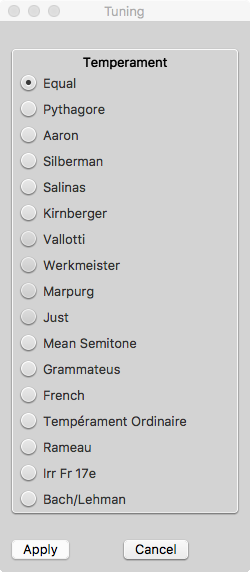
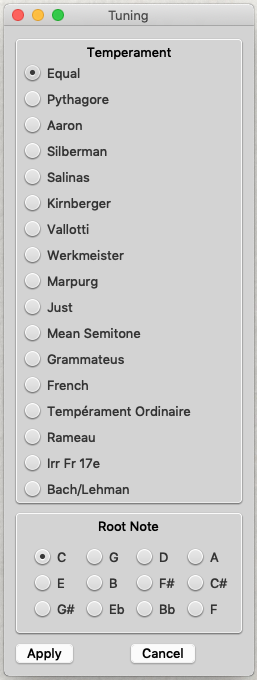
added the ability to change the root note

Changed region(s): [[0.0, 0.0, 1.0, 1.0]]

diff --git a/src/Tuning/tuning.qml b/src/Tuning/tuning.qml
@@ -27,7 +27,7 @@ MuseScore {
     description: "Converts between tuning systems"
     pluginType: "dialog"
     width: 250
-    height: 550
+    height: 650
 
     onRun: {
         if (!curScore) {
@@ -35,6 +35,7 @@ MuseScore {
             Qt.quit()
         }
         chosenTemperament = equal;
+        chosenRoot = 0;
     }
 
     function applyTemperament()
@@ -144,12 +145,13 @@ MuseScore {
     property var bachLehman: [ 000.0, 698.0, 196.1, 894.1, 392.2, 1094.1, 596.1, 98.0, 798.0, 298.0, 998.0, 502.0 ];
 
     property var chosenTemperament: [];
+    property var chosenRoot: 0;
 
     /**
      * map a note (pitch modulo 12) to a value in one of the above tables
      */
     function lookUp(note, table) {
-        return table[(note * 7) % 12];
+        return table[((note * 7) - chosenRoot + 12) % 12];
     }
 
     /**
@@ -165,7 +167,7 @@ MuseScore {
     Rectangle {
         color: "lightgrey"
         anchors.fill: parent
-
+ 
         GridLayout {
             columns: 2
             anchors.fill: parent
@@ -296,6 +298,103 @@ MuseScore {
                         exclusiveGroup: tempamentTypeGroup
                         onClicked: {
                             chosenTemperament = bachLehman
+                        }
+                    }
+                }
+            }
+            GroupBox {
+                Layout.columnSpan: 2
+                anchors.left: parent.left
+                anchors.right: parent.right
+                title: "Root Note"
+                GridLayout {
+                    columns: 4
+                    anchors.fill: parent
+                    anchors.margins: 10
+                    ExclusiveGroup { id: rootNoteGroup }
+                    RadioButton {
+                        text: "C"
+                        checked: true
+                        exclusiveGroup: rootNoteGroup
+                        onClicked: {
+                            chosenRoot = 0
+                        }
+                    }
+                    RadioButton {
+                        text: "G"
+                        exclusiveGroup: rootNoteGroup
+                        onClicked: {
+                            chosenRoot = 1
+                        }
+                    }
+                    RadioButton {
+                        text: "D"
+                        exclusiveGroup: rootNoteGroup
+                        onClicked: {
+                            chosenRoot = 2
+                        }
+                    }
+                    RadioButton {
+                        text: "A"
+                        exclusiveGroup: rootNoteGroup
+                        onClicked: {
+                            chosenRoot = 3
+                        }
+                    }
+                    RadioButton {
+                        text: "E"
+                        exclusiveGroup: rootNoteGroup
+                        onClicked: {
+                            chosenRoot = 4
+                        }
+                    }
+                    RadioButton {
+                        text: "B"
+                        exclusiveGroup: rootNoteGroup
+                        onClicked: {
+                            chosenRoot = 5
+                        }
+                    }
+                    RadioButton {
+                        text: "F#"
+                        exclusiveGroup: rootNoteGroup
+                        onClicked: {
+                            chosenRoot = 6
+                        }
+                    }
+                    RadioButton {
+                        text: "C#"
+                        exclusiveGroup: rootNoteGroup
+                        onClicked: {
+                            chosenRoot = 7
+                        }
+                    }
+                    RadioButton {
+                        text: "G#"
+                        exclusiveGroup: rootNoteGroup
+                        onClicked: {
+                            chosenRoot = 8
+                        }
+                    }
+                    RadioButton {
+                        text: "Eb"
+                        exclusiveGroup: rootNoteGroup
+                        onClicked: {
+                            chosenRoot = 9
+                        }
+                    }
+                    RadioButton {
+                        text: "Bb"
+                        exclusiveGroup: rootNoteGroup
+                        onClicked: {
+                            chosenRoot = 10
+                        }
+                    }
+                    RadioButton {
+                        text: "F"
+                        exclusiveGroup: rootNoteGroup
+                        onClicked: {
+                            chosenRoot = 11
                         }
                     }
                 }

diff --git a/src/Tuning/README.md b/src/Tuning/README.md
@@ -40,6 +40,8 @@ Supported tunings with a brief description, see the Pierre Lewis page above for 
 
 Select a passage, then invoke the plugin via `Plugins > Playback > Tuning`, select a tuning and apply. It changes the tuning offset for every selected note appropriately. To reset, select everything and apply the "equal" tuning (equal temperament.)
 
+New in this release, you can now select a root note other than C on which the tuning will be centered.
+
 ## PS
 
 Many people say they can't tell the difference between tunings, and it is a subtle difference in the character of chords for the most part. To convince yourself that this plugin is working, I suggest applying the "Just" intonation (a particularily extreme tuning) to a passage of chordal music with chromatic harmony and notice how some (yymv) sounds beautifully concordant while the rest sounds horribly out of tune.
